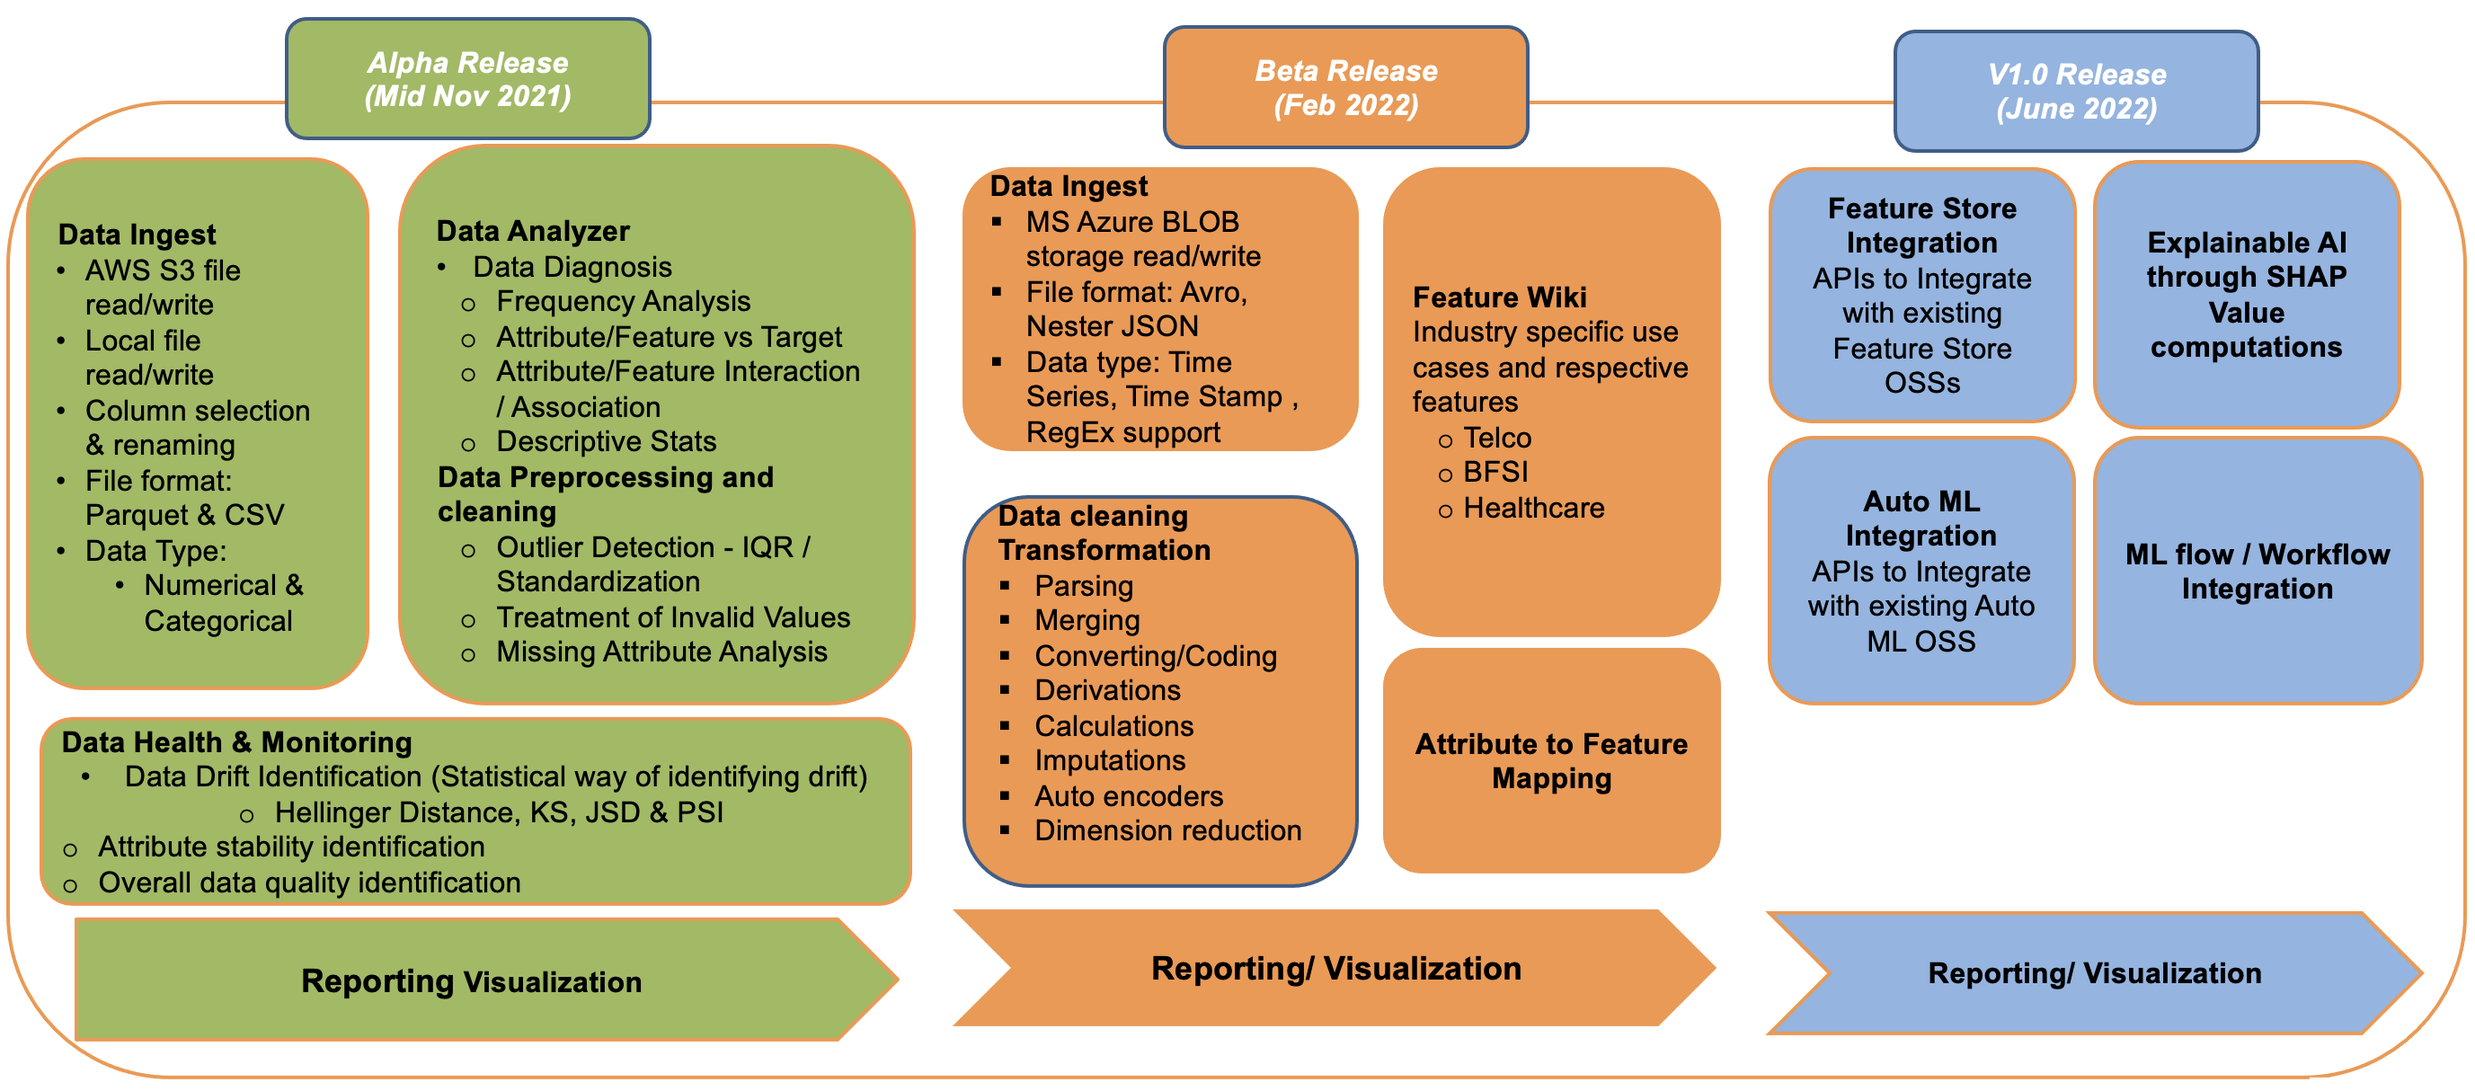
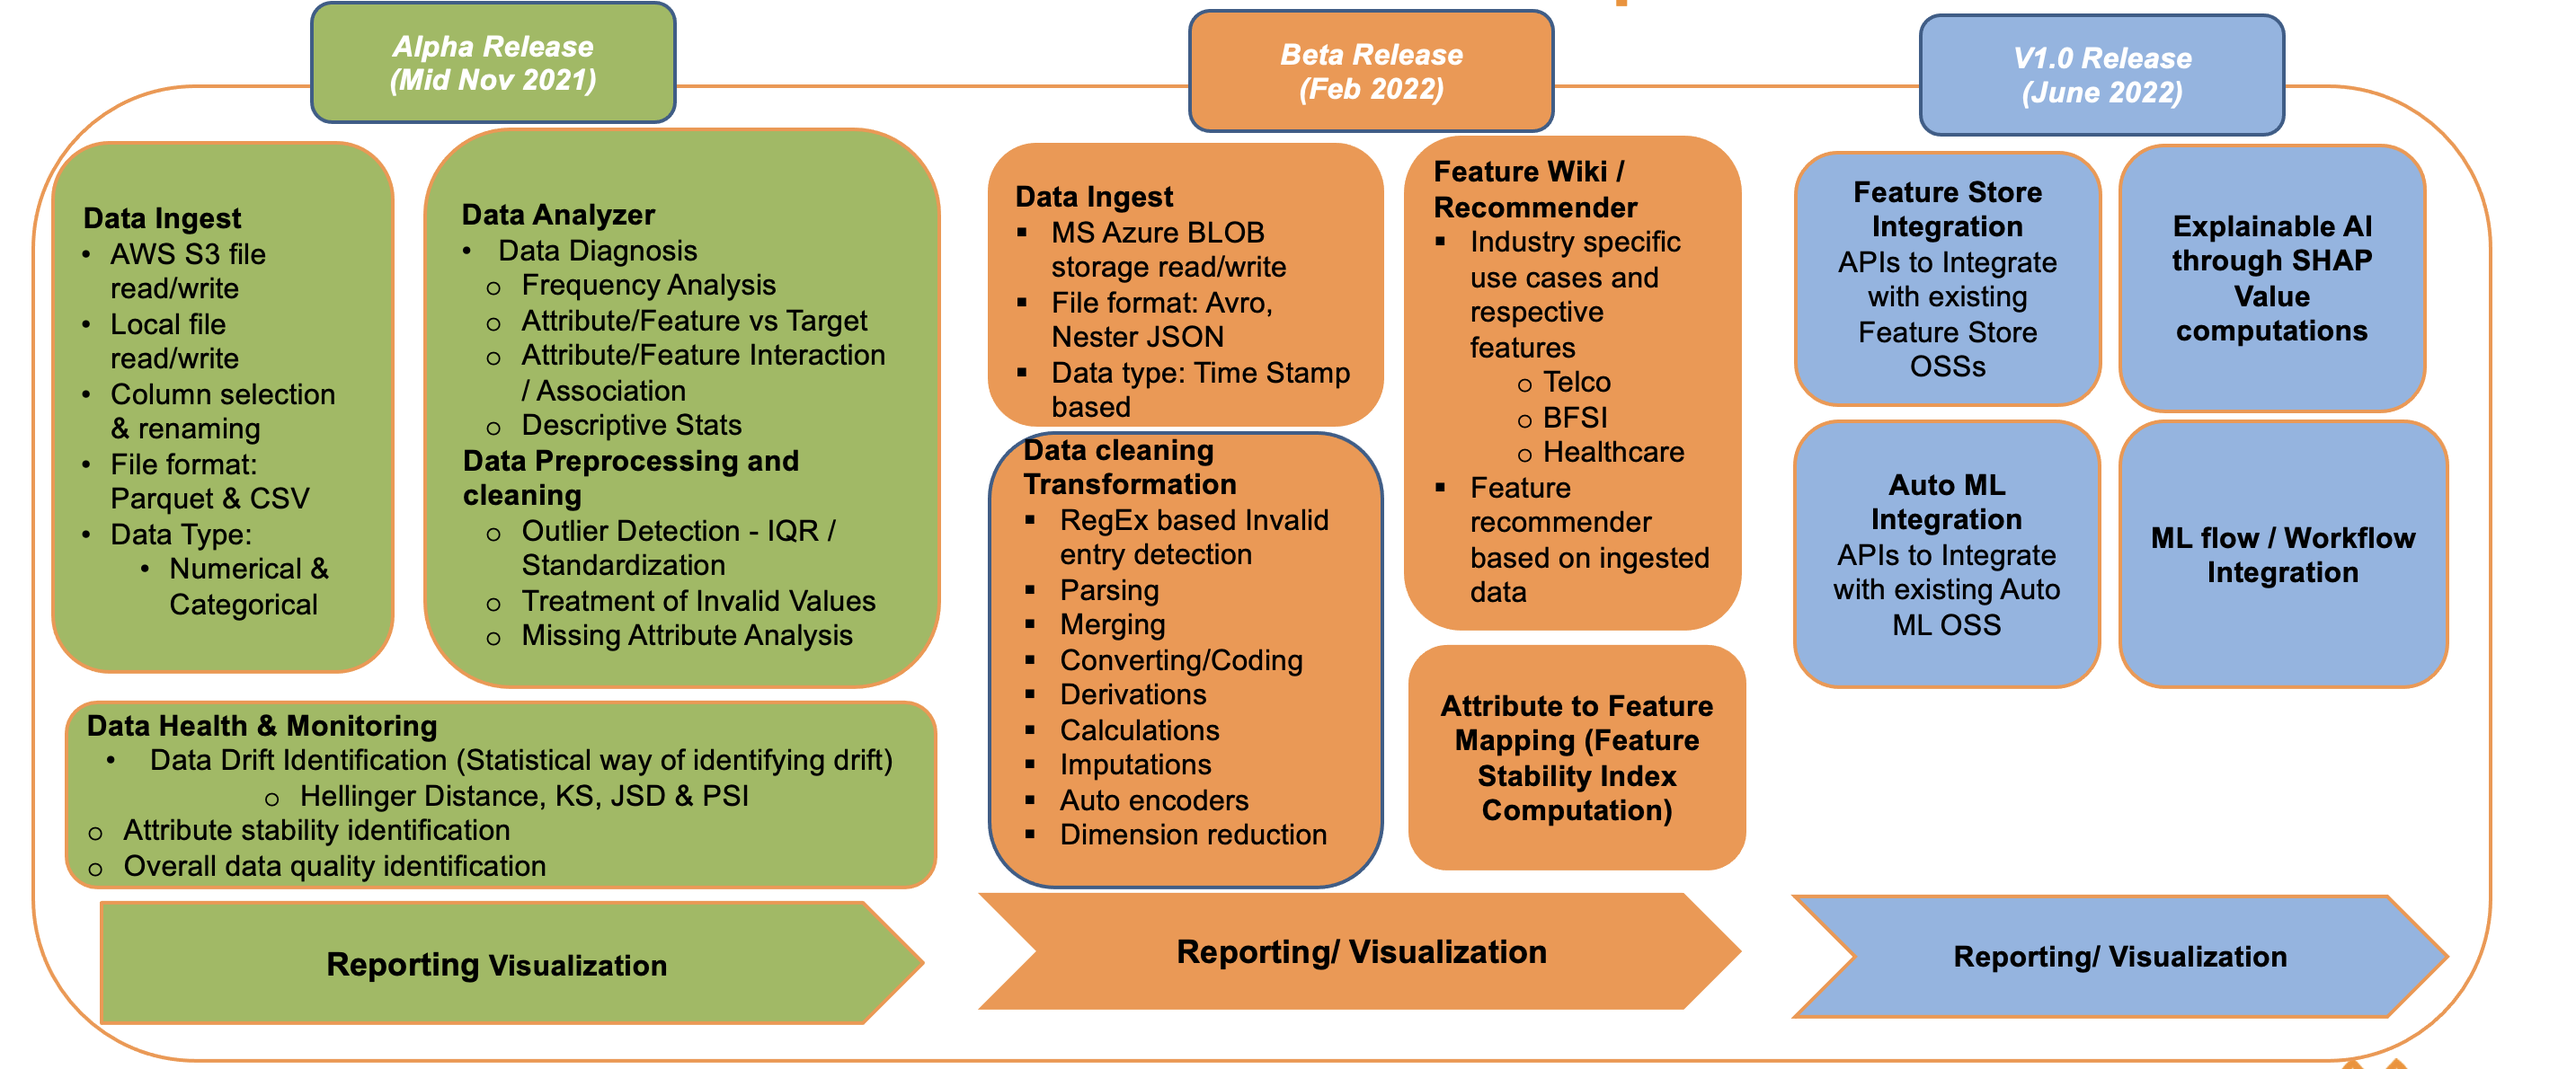
Roadmap as text  (#21)
* Add roadmap as text to aid indexing by search engines

* Update roadmap.md

Added and updated missing roadmap details to the existing branch

* Added roadmap.png as per the latest roadmap

* Fix list indentation for mkdocs

Changed region(s): [[0.0, 0.0, 0.9993, 1.0], [0.4372, 0.8706, 0.6245, 0.9017]]

diff --git a/docs/using-anovos/roadmap.md b/docs/using-anovos/roadmap.md
@@ -25,35 +25,35 @@ Every data metric computed from the _Anovos_ ingestion process can be visualized
 #### Details
 
 - **Data Ingest**
-  - AWS S3 Storage integration
-  - Read and write to/from local files
-  - Column selection and renaming
-  - Support for Parquet and CSV files
-  - Support for numerical and categorical data types
+      - AWS S3 Storage integration
+      - Read and write to/from local files
+      - Column selection and renaming
+      - Support for Parquet and CSV files
+      - Support for numerical and categorical data types
 - **Data Analyzer and Diagnostics**
-  - Frequency analysis
-  - Attribute/feature vs. target
-  - Attribute/feature interaction/association
+      - Frequency analysis
+      - Attribute/feature vs. target
+      - Attribute/feature interaction/association
 - **Data Preprocessing and Cleaning**
-  - Outlier detection (IQR/Standardization)
-  - Treatment of invalid values
-  - Missing attributes analysis
+      - Outlier detection (IQR/Standardization)
+      - Treatment of invalid values
+      - Missing attributes analysis
 - **Data Health and Monitoring**
-  - Data drift identification (Hellinger Distance, KS, JSD, and PSI)
-  - Attribute stability analysis
-  - Overall data quality analysis
-- **Run time Environment support**
-  - Local 
-  - Docker based
-  - AWS EMR 
+      - Data drift identification (Hellinger Distance, KS, JSD, and PSI)
+      - Attribute stability analysis
+      - Overall data quality analysis
+- **Runtime Environment support**
+      - Local 
+      - Docker-based
+      - AWS EMR 
 - **Report Visualization**
-  - Comprehensive 360 degree view report of the ingested data (Numerical & Categorical)
-     - Executive summary
-     - Wiki
-     - Descriptive statistics
-     - Quality Checker
-     - Attribute association
-     - Data drift & stability
+      - Comprehensive 360 degree view report of the ingested data (Numerical & Categorical)
+          - Executive summary
+          - Wiki
+          - Descriptive statistics
+          - Quality Checker
+          - Attribute association
+          - Data drift & stability
 ### Beta Release
 
 In the Beta release of _Anovos_, the library will support ingesting from cloud service providers
@@ -68,31 +68,31 @@ The Beta release will also have another capability named as Feature Stability es
 #### Details
 
 - **Data Ingest**
-  - Microsoft Azure Blob Storage integration
-  - Support for Avro and nested JSON files
-  - Support for additional data types: Time stamps columns 
+    - Microsoft Azure Blob Storage integration
+    - Support for Avro and nested JSON files
+    - Support for additional data types: Time stamps columns 
 - **Data Cleaning and Transformation**
-  - Parsing
-  - Merging
-  - Converting/Coding
-  - Derivations
-  - Calculations
-  - Imputations
-  - Auto encoders
-  - Dimension reduction
+    - Parsing
+    - Merging
+    - Converting/Coding
+    - Derivations
+    - Calculations
+    - Imputations
+    - Auto encoders
+    - Dimension reduction
 - **Feature Wiki / Feature recommender**
-  - Industry specific use cases and respective features
-    - Telco
-    - BFSI
-    - Retail
-    - Healthcare
-    - Transportation
-    - Supply chain
-  - Recommend potential features based on the Inustry, Use Case and ingested data dictionary
+  to recommend potential features based on the industry, use case, and the ingested data dictionary
+    - Industry specific use cases and respective features
+        - Telco
+        - BFSI
+        - Retail
+        - Healthcare
+        - Transportation
+        - Supply chain
 - **Feature Stability**
-  - This will be an extension of attribute stability of alpha release
-- **Run time Environment support**
-  - Microsoft Azure 
+    - This will be an extension of the attribute stability capabilities of the Alpha release
+- **Runtime Environment support**
+    - Microsoft Azure 
 ### Version 1.0
 
 We'll release version 1.0 of _Anovos_ in June 2022 with the functionalities to support an end-to-end
